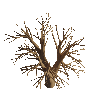
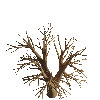
First batch of fixes for the obstacle hitboxes in level 1.

diff --git a/source/core/src/main/com/deco2800/game/entities/factories/ObstacleFactory.java b/source/core/src/main/com/deco2800/game/entities/factories/ObstacleFactory.java
@@ -12,6 +12,7 @@ import com.deco2800.game.physics.components.HitboxComponent;
 import com.deco2800.game.physics.components.PhysicsComponent;
 import com.deco2800.game.components.EntityEffectsComponent;
 import com.deco2800.game.rendering.TextureRenderComponent;
+import com.deco2800.game.utils.math.RandomUtils;
 
 import java.awt.*;
 
@@ -59,6 +60,43 @@ public class ObstacleFactory {
   }
 
   /**
+   * Creates a dead tree entity for level 1.
+   * @return entity
+   */
+  public static Entity createBarrier() {
+    Entity tree =
+        new Entity()
+            .addComponent(new TextureRenderComponent("images/level_1/road_barrier.png"))
+            .addComponent(new PhysicsComponent())
+            .addComponent(new ColliderComponent().setLayer(PhysicsLayer.OBSTACLE));
+
+    tree.getComponent(PhysicsComponent.class).setBodyType(BodyType.StaticBody);
+    tree.getComponent(TextureRenderComponent.class).scaleEntity();
+    tree.scaleHeight(2f);
+    PhysicsUtils.setScaledCollider(tree, 0.4f, 1f);
+    return tree;
+  }
+
+  /**
+   * Creates a dead tree entity for level 1.
+   * @return entity
+   */
+  public static Entity createDeadTree() {
+    Entity tree =
+        new Entity()
+            .addComponent(new TextureRenderComponent("images/level_1/dead_tree1-day1-latest.png"))
+            .addComponent(new PhysicsComponent())
+            .addComponent(new ColliderComponent().setLayer(PhysicsLayer.OBSTACLE));
+
+    tree.getComponent(PhysicsComponent.class).setBodyType(BodyType.StaticBody);
+    tree.getComponent(TextureRenderComponent.class).scaleEntity();
+
+    tree.scaleHeight(4f);
+    PhysicsUtils.setScaledCollider(tree, 0.5f, 0.5f);
+    return tree;
+  }
+
+  /**
    * Create a cobweb entity, slows the player's movement.
    * @return entity
    */
@@ -98,19 +136,26 @@ public class ObstacleFactory {
   }
 
   public static Entity createLamp() {
-    Entity bush =
+    String lampPath;
+    if (RandomUtils.randomInt(2) == 1) {
+      lampPath = "images/level_1/street_lamp.png";
+    } else {
+      lampPath = "images/level_1/street_lamped_vined.png";
+    }
+    Entity lamp =
             new Entity()
-                    .addComponent(new TextureRenderComponent("images/lamppost.png"))
-                    .addComponent(new PointLightComponent(Color.ORANGE, 10f, 0, 0))
+                    .addComponent(new TextureRenderComponent(lampPath))
+                    .addComponent(new PointLightComponent(Color.ORANGE, 4f, 0, 0))
                     .addComponent(new PhysicsComponent())
+                    .addComponent(new ColliderComponent().setLayer(PhysicsLayer.OBSTACLE))
                     .addComponent(new HitboxComponent());
 
-
-//    bush.getComponent(PhysicsComponent.class).setBodyType(BodyType.StaticBody);
-    bush.getComponent(TextureRenderComponent.class).scaleEntity();
-//    bush.scaleHeight(2.0f);
-    bush.scaleWidth(0.7f);
-    return bush;
+    lamp.getComponent(PhysicsComponent.class).setBodyType(BodyType.StaticBody);
+    lamp.getComponent(TextureRenderComponent.class).scaleEntity();
+    lamp.scaleHeight(2.0f);
+    lamp.scaleWidth(1f);
+    PhysicsUtils.setScaledCollider(lamp, 0.5f, 0.5f);
+    return lamp;
   }
   /**
    * Creates an invisible physics wall.
@@ -162,6 +207,7 @@ public class ObstacleFactory {
     building.getComponent(PhysicsComponent.class).setBodyType(BodyType.StaticBody);
     building.getComponent(TextureRenderComponent.class).scaleEntity();
     building.scaleHeight(10f);
+    PhysicsUtils.setScaledCollider(building, 0.7f, 0.6f);
     return building;
   }
 

diff --git a/source/core/src/main/com/deco2800/game/areas/Level1.java b/source/core/src/main/com/deco2800/game/areas/Level1.java
@@ -234,9 +234,8 @@ public class Level1 extends GameArea {
         //leave a gap in the middle
         continue;
       }
-
       GridPoint2 position = new GridPoint2(18, i);
-      Entity barrier = ObstacleFactory.createObject("images/level_1/road_barrier.png", 2f);
+      Entity barrier = ObstacleFactory.createBarrier();
       spawnEntityAt(barrier, position, true, false);
     }
   }
@@ -246,8 +245,8 @@ public class Level1 extends GameArea {
     GridPoint2 maxPos = terrain.getMapBounds(0).sub(15, 6);
     for (int i = 0; i < NUM_TREES; i++) {
       GridPoint2 position = RandomUtils.random(minPos, maxPos);
-      Entity tree = ObstacleFactory.createObject("images/level_1/dead_tree1-day1-latest.png", 4f);
-      spawnEntityAt(tree, position, false, false);
+      Entity tree = ObstacleFactory.createDeadTree();
+      spawnEntityAt(tree, position, true, true);
     }
   }
 
@@ -255,13 +254,7 @@ public class Level1 extends GameArea {
     GridPoint2 tileBounds = terrain.getMapBounds(0);
     for (int x = 5; x < tileBounds.x * 0.75; x += 5) {
       GridPoint2 position = new GridPoint2(x, 1);
-      String lampPath;
-      if (RandomUtils.randomInt(2) == 1) {
-        lampPath = "images/level_1/street_lamp.png";
-      } else {
-        lampPath = "images/level_1/street_lamped_vined.png";
-      }
-      Entity lamppost = ObstacleFactory.createObject(lampPath, 2f);
+      Entity lamppost = ObstacleFactory.createLamp();
       spawnEntityAt(lamppost, position, true, true);
     }
   }
